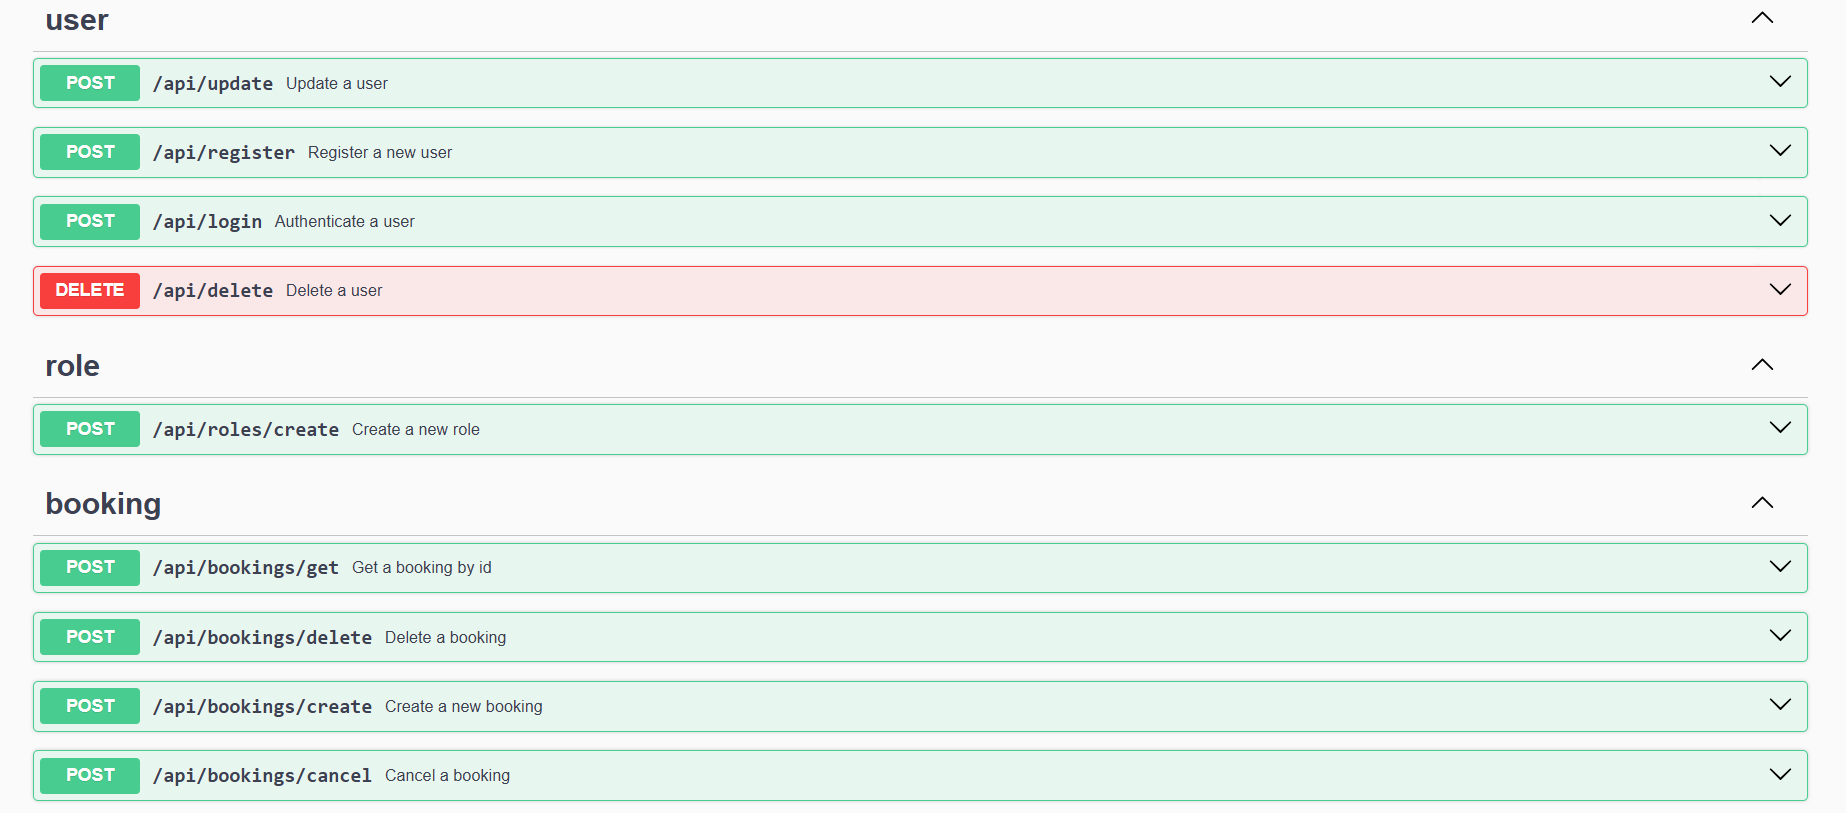
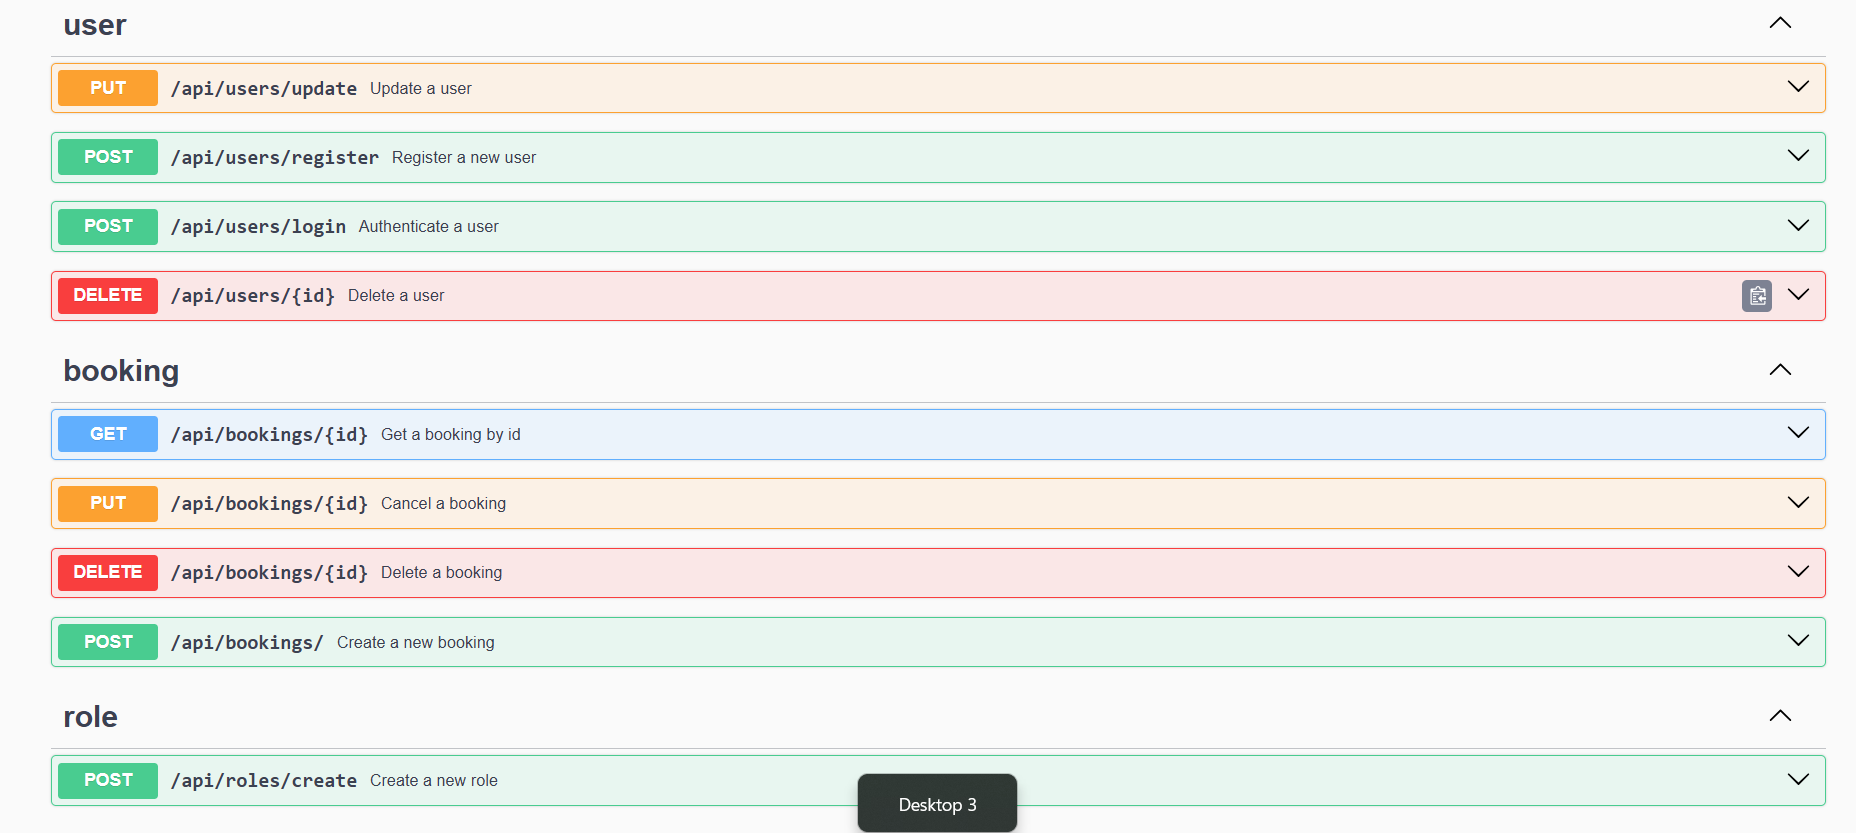
Jwt implemented

Changed region(s): [[0.0, 0.4305, 0.9881, 1.0], [0.0, 0.0, 0.9881, 0.3998]]

diff --git a/code/AbschlussM223/src/main/java/com/example/abschlussm223/config/SecurityConfig.java b/code/AbschlussM223/src/main/java/com/example/abschlussm223/config/SecurityConfig.java
@@ -1,0 +1,45 @@
+package com.example.abschlussm223.config;
+
+import org.springframework.context.annotation.Bean;
+import org.springframework.context.annotation.Configuration;
+import org.springframework.security.config.annotation.method.configuration.EnableMethodSecurity;
+import org.springframework.security.config.annotation.web.builders.HttpSecurity;
+import org.springframework.security.config.annotation.web.configuration.EnableWebSecurity;
+import org.springframework.security.config.annotation.web.configurers.AbstractHttpConfigurer;
+import org.springframework.security.crypto.bcrypt.BCryptPasswordEncoder;
+import org.springframework.security.crypto.password.PasswordEncoder;
+import org.springframework.security.web.SecurityFilterChain;
+
+@Configuration
+@EnableWebSecurity
+@EnableMethodSecurity(prePostEnabled = true)
+public class SecurityConfig {
+
+    @Bean
+    public SecurityFilterChain securityFilterChain(HttpSecurity http) throws Exception {
+        http
+                .csrf(AbstractHttpConfigurer::disable)
+                .authorizeHttpRequests(authorizeRequests ->
+                        authorizeRequests
+                                .anyRequest().permitAll()
+                );
+
+        return http.build();
+    }
+
+    @Bean
+    public PasswordEncoder passwordEncoder() {
+        return new BCryptPasswordEncoder();
+    }
+
+    // hash password
+    public String hashPassword(String password) {
+        return passwordEncoder().encode(password);
+    }
+
+    // password comparator
+
+    public boolean comparePasswords(String password, String hashedPassword) {
+        return passwordEncoder().matches(password, hashedPassword);
+    }
+}

diff --git a/code/AbschlussM223/src/main/java/com/example/abschlussm223/config/JwtAuthFilter.java b/code/AbschlussM223/src/main/java/com/example/abschlussm223/config/JwtAuthFilter.java
@@ -1,0 +1,25 @@
+package com.example.abschlussm223.config;
+
+import jakarta.servlet.FilterChain;
+import jakarta.servlet.ServletException;
+import jakarta.servlet.http.HttpServletRequest;
+import jakarta.servlet.http.HttpServletResponse;
+import org.springframework.web.filter.OncePerRequestFilter;
+
+import java.io.IOException;
+
+public class JwtAuthFilter extends OncePerRequestFilter {
+
+    @Override
+    protected void doFilterInternal(HttpServletRequest request, HttpServletResponse response, FilterChain filterChain)
+            throws ServletException, IOException {
+
+        String path = request.getRequestURI();
+        if(path.equals("/api/users/register") || path.equals("/api/users/login")) {
+            filterChain.doFilter(request, response);
+            return;
+        }
+
+        filterChain.doFilter(request, response);
+}
+}

diff --git a/code/AbschlussM223/src/main/java/com/example/abschlussm223/controller/UserController.java b/code/AbschlussM223/src/main/java/com/example/abschlussm223/controller/UserController.java
@@ -7,7 +7,6 @@ import jakarta.validation.Valid;
 import org.springframework.beans.factory.annotation.Autowired;
 import org.springframework.http.HttpStatus;
 import org.springframework.http.ResponseEntity;
-import org.springframework.stereotype.Controller;
 import org.springframework.web.bind.annotation.*;
 
 @RestController
@@ -24,6 +23,7 @@ public class UserController {
         @io.swagger.v3.oas.annotations.responses.ApiResponse(responseCode = "400", description = "Invalid input"),
     })
     public ResponseEntity<String> registerUser(@Valid @RequestBody User user) {
+
         try {
             userService.registerUser(user);
             return new ResponseEntity<>("User registered successfully", HttpStatus.CREATED);

diff --git a/code/AbschlussM223/src/main/java/com/example/abschlussm223/services/UserService.java b/code/AbschlussM223/src/main/java/com/example/abschlussm223/services/UserService.java
@@ -54,7 +54,6 @@ public class UserService {
         }
         return ("User not found");
     }
-
     // delete user
     public String deleteUser(Long userId) {
         Optional<User> existingUser = userRepository.findById(userId);

diff --git a/Readme.md b/Readme.md
@@ -47,7 +47,7 @@ Die Datenbank kann mit dem Befehl `docker-compose up` gestartet werden.
 docker-compose up
 ```
 
-Das läuft über den Port `3306` und kann mit dem User `root` und dem Passwort `root` in phpmyadmin erreicht werden.
+Das läuft über den Port `3306` und kann mit dem User `root` und dem Passwort `bbw123` in phpmyadmin erreicht werden.
 
 
 # Testdaten
@@ -140,3 +140,5 @@ Die API kann auch über Swagger erreicht werden.
 ## Postman
 
 [<img src="https://run.pstmn.io/button.svg" alt="Run In Postman" style="width: 128px; height: 32px;">](https://app.getpostman.com/run-collection/27955045-9cbb320d-43fb-4379-a41d-98911062402f?action=collection%2Ffork&source=rip_markdown&collection-url=entityId%3D27955045-9cbb320d-43fb-4379-a41d-98911062402f%26entityType%3Dcollection%26workspaceId%3D582dfada-5bb9-45e7-b627-8791289ac85f)
+
+Die API kann auch über Postman erreicht werden.
